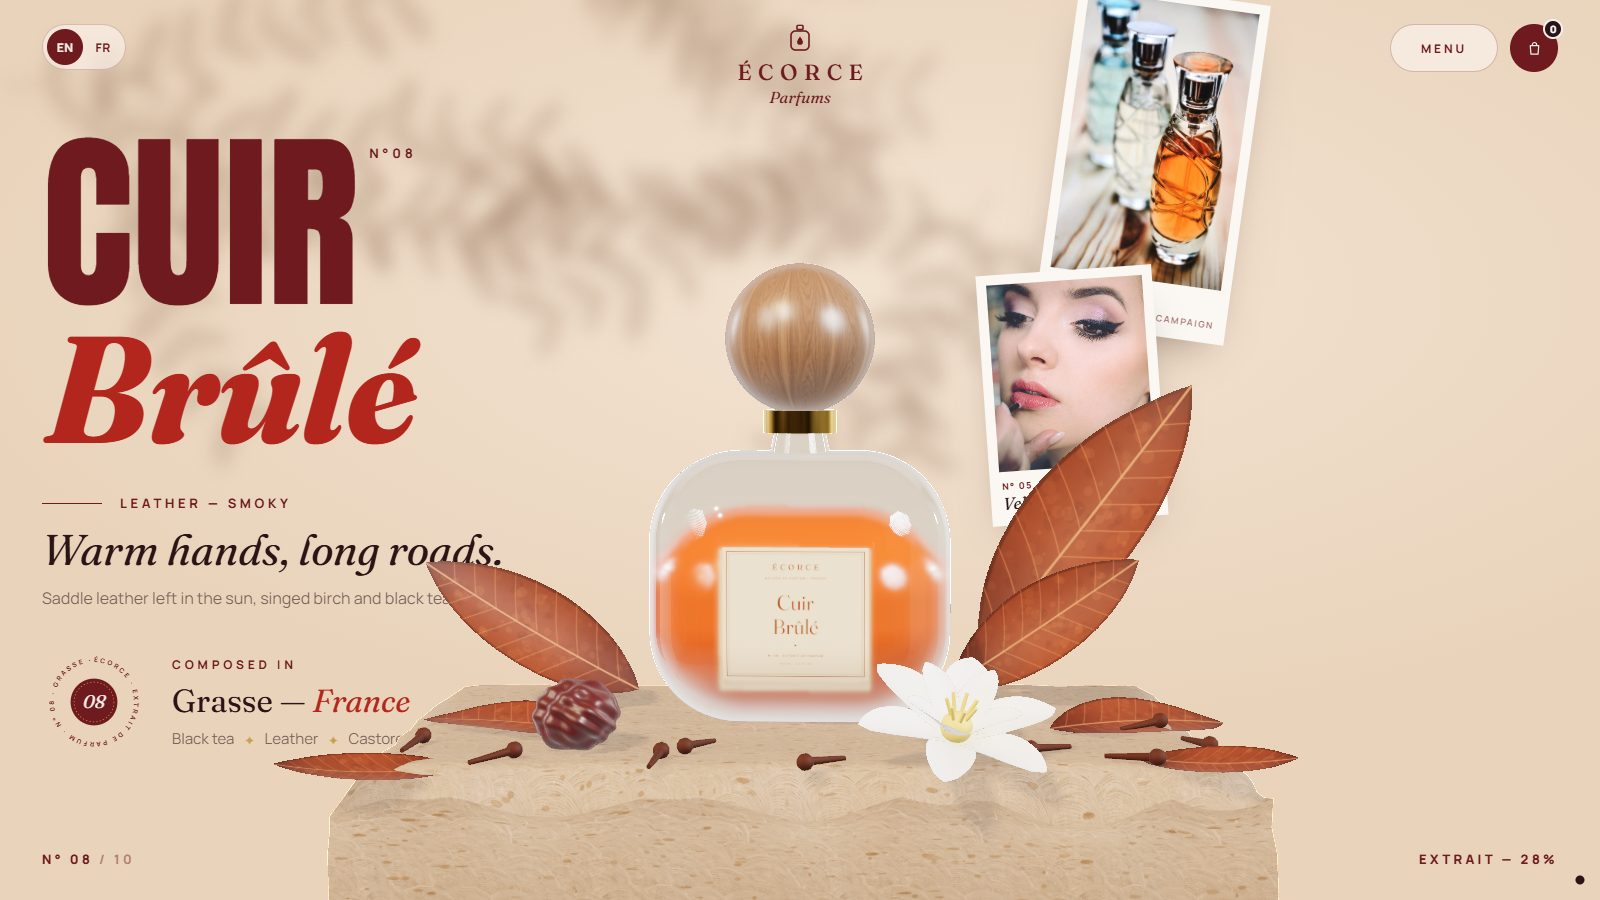
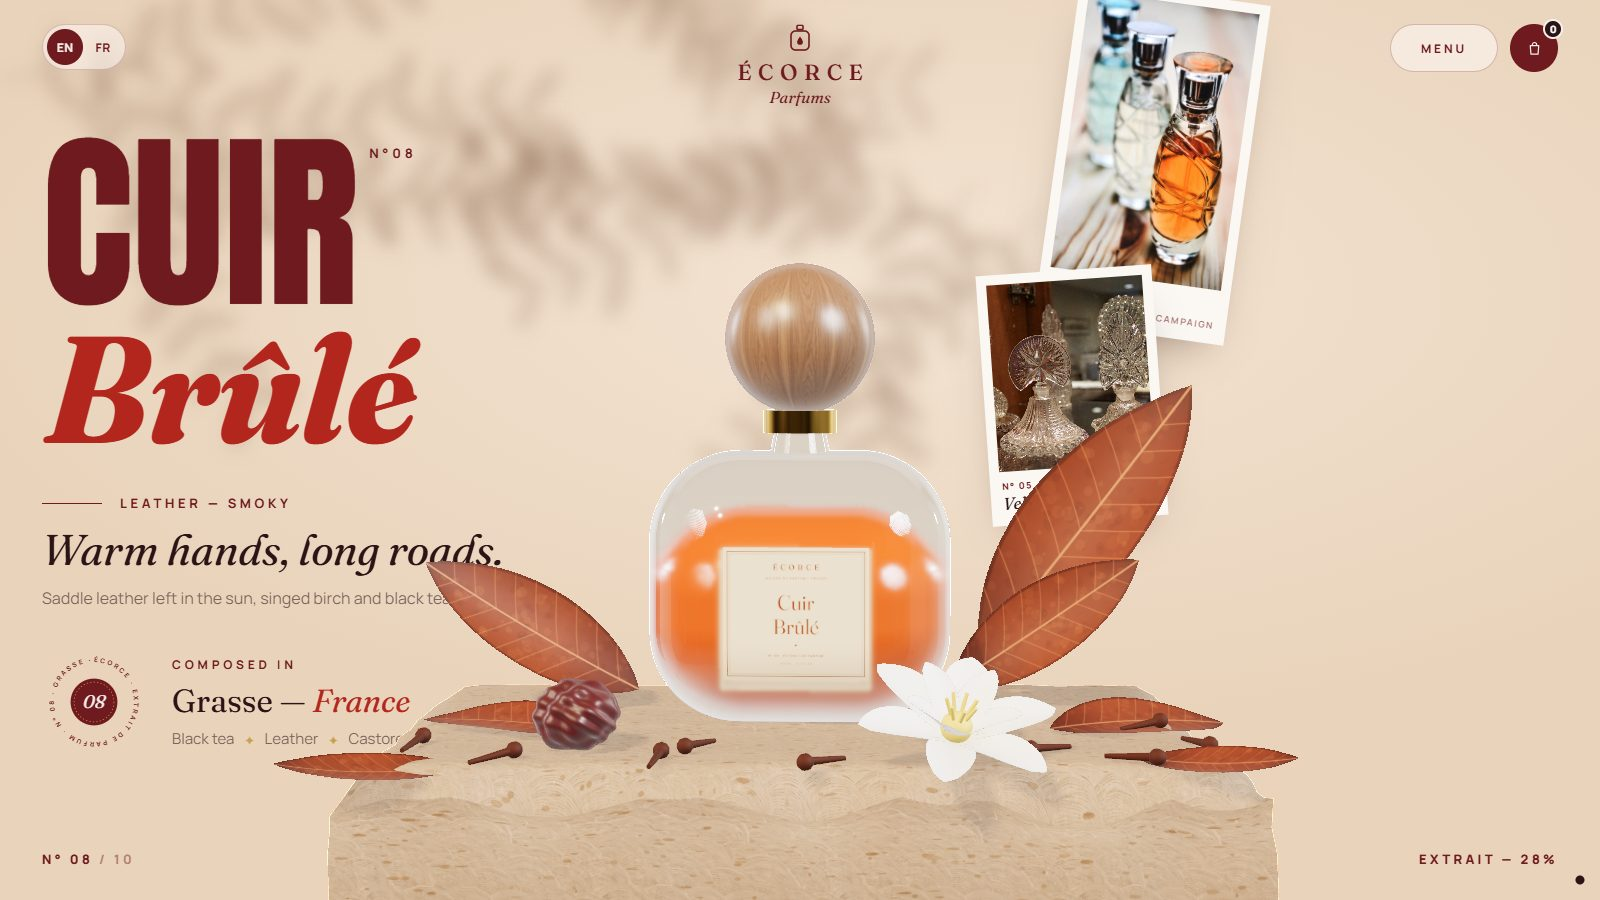
Showcase: perfume-only photos
Every photo slot on the site now shows perfume bottles (vintage crystal and
museum scent bottles, modern bottle groups) instead of the earlier mixed stock
shots. Refreshes the hero, tunnel, composition and Worn & wanted screenshots and
the photo credits to match.

diff --git a/docs/HOW-IT-BUILDS.md b/docs/HOW-IT-BUILDS.md
@@ -9,7 +9,7 @@
 | Motion | GSAP + ScrollTrigger, Lenis smooth scroll — all on one shared ticker |
 | State | Zustand for page mode / selection; plain mutable objects for per-frame data |
 | Content | All copy and product data (10 scents, notes, moods, bottle shapes) in one data file |
-| Assets | Poly Haven CC0 HDRI + plaster / walnut / marble textures; CC0 / public-domain campaign photos; Fraunces, Manrope, Anton via `next/font` |
+| Assets | Poly Haven CC0 HDRI + plaster / walnut / marble textures; CC0 / public-domain perfume-bottle photos; Fraunces, Manrope, Anton via `next/font` |
 | Hosting | Vercel |
 
 ## Build and deploy
@@ -41,7 +41,7 @@ continuity, docking accuracy), on an Intel UHD laptop GPU.
 | 8 | Still life | Travertine plinth, leaves, gardenia, cloves, plum, warm sun with real shadows |
 | 9 | PBR textures | Poly Haven plaster / walnut / marble, 2K desktop / 1K phone |
 | 10 | Phone pass | Device tier, phone layouts for every section, touch, real-phone check over Wi-Fi |
-| 11 | Photos + menu | Free-licence campaign photos in every photo slot, a working full-screen menu, real contact email |
+| 11 | Photos + menu | Free-licence perfume-bottle photos in every photo slot, a working full-screen menu, real contact email |
 
 ## Performance fixes that mattered
 

diff --git a/README.md b/README.md
@@ -132,5 +132,5 @@ In one line: Next.js (App Router, TypeScript) statically generates the home page
 
 Built from the public design specs in [alagappan567/perfume-ecorce-showcase](https://github.com/alagappan567/perfume-ecorce-showcase).
 Studio HDRI and the plaster, walnut and marble textures: [Poly Haven](https://polyhaven.com) (CC0).
-Campaign photos: free-licence stock (CC0 / public domain) from StockSnap, rawpixel and Flickr, found via [Openverse](https://openverse.org).
+Campaign photos: free-licence perfume-bottle photos (CC0 / public domain) from rawpixel and Flickr, found via [Openverse](https://openverse.org).
 Fonts: Fraunces, Manrope and Anton (SIL OFL). ÉCORCE is a fictional brand; all commerce is dummy UI.
